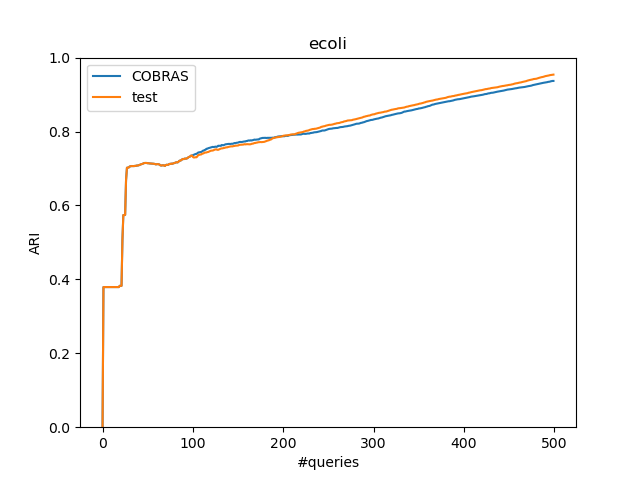
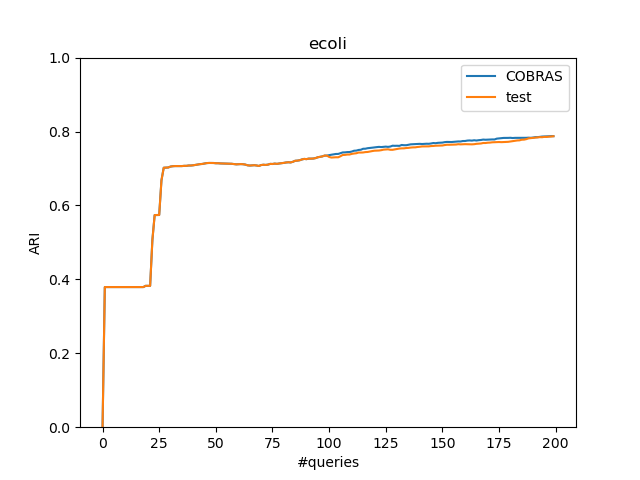
pictures

diff --git a/Testing/experiment.py b/Testing/experiment.py
@@ -385,8 +385,8 @@ def makeARI(path, name_algo = ""): # momenteel enkel vergelijken met COBRAS, en 
 
     for key, item in test.items():
 
-        testpd[key] = np.array(item)
-        cobraspd[key] = np.array(cobras[key])
+        testpd[key] = np.array(item)[:200]
+        cobraspd[key] = np.array(cobras[key])[:200]
         
         plt.plot(cobraspd[key], label = "COBRAS")
         plt.plot(testpd[key], label = name_algo)
@@ -403,7 +403,7 @@ def makeARI(path, name_algo = ""): # momenteel enkel vergelijken met COBRAS, en 
     all_results["COBRAS"] = cobraspd.mean(axis=1)
     all_results[name_algo] = testpd.mean(axis=1)
 
-    all_results.plot(xlabel="#queries", ylabel="ARI", ylim = (0,1))
+    all_results.plot(xlabel="#queries", ylabel="ARI", ylim = (0.4,0.85))
     # plt.show()
     plt.savefig(f"{path}/plots/total.png")
 
@@ -504,6 +504,15 @@ def makeFolders(initial, where):
             os.makedirs(path)
             print("created folder : ", path)
 
+def doAll(path):
+    newPath = path.joinpath("plots")
+    CHECK_FOLDER = os.path.isdir(newPath)
+    if not CHECK_FOLDER:
+        os.makedirs(newPath)
+        print("created folder : ", newPath)
+    makeARI(path, name_algo = "test")
+    makeDifferencePlot(path, name_algo = "test")
+
 
 if __name__ == "__main__":
     def ignore_warnings():
@@ -532,8 +541,15 @@ if __name__ == "__main__":
     # simpleRebuildLearning()
 
     # make plots
-    path = Path(f"experimenten/rebuild_knn/metric_True/rebuildLevel_all/100").absolute()
+    doAll(Path(f"experimenten/rebuild_knn/metric_True/rebuildLevel_all/100").absolute())
+
+    doAll(Path(f"experimenten/rebuild_knn/metric_False/rebuildLevel_all/100").absolute())
+
+    # doAll(Path(f"experimenten/rebuild/metric_False/rebuildLevel_superinstance/0/100").absolute())
+
+    # path = Path(f"experimenten/rebuild/metric_False/rebuildLevel_superinstance/0/100").absolute()
     # makeARI(path, name_algo = "test")
-    makeDifferencePlot(path, name_algo = "test")
+    # makeDifferencePlot(path, name_algo = "test")
+
 
     
